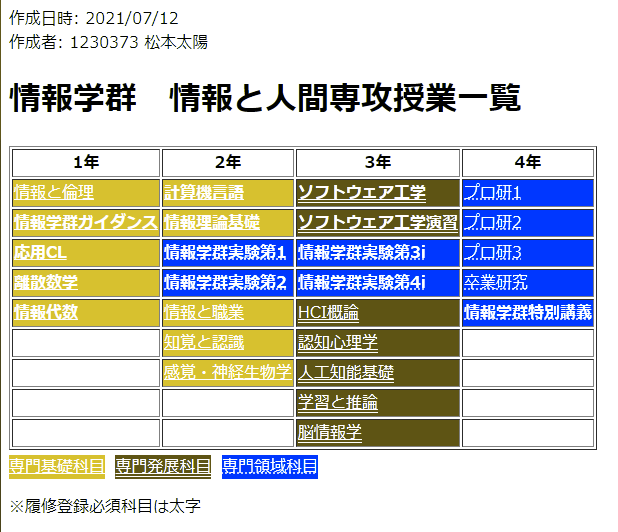
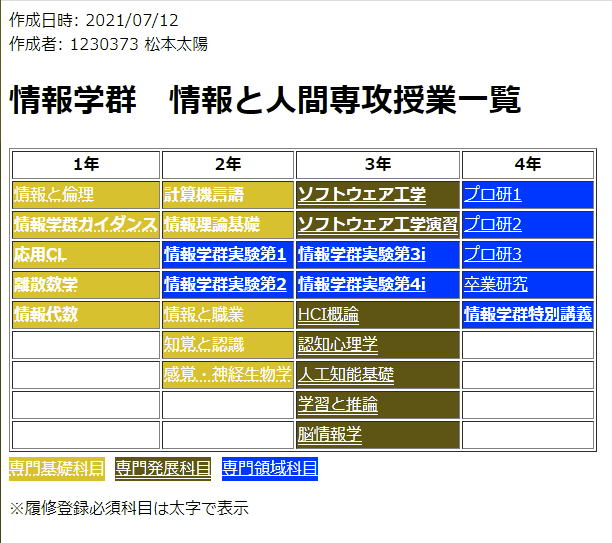
fix

diff --git a/web2/s1-ud.html b/web2/s1-ud.html
@@ -84,7 +84,7 @@
             <span class="sh">専門発展科目</span>
             <span class="sr">専門領域科目</span>
             <span class="require">履修登録必須科目</span>
-            <p class = "req-desc">※履修登録必須科目は太字</p>
+            <p class = "req-desc">※履修登録必須科目は太字で表示</p>
         </div>
     </div>
 </body>

diff --git a/web2/css/s1-ud.css b/web2/css/s1-ud.css
@@ -8,7 +8,7 @@
 
 .mainContents .sk{
     background-color: yellowgreen;
-    text-decoration: underline;
+    text-decoration: underline dotted;
 }
 
 .mainContents .sh{
@@ -18,7 +18,7 @@
 
 .mainContents .sr{
     background-color: blue;
-    text-decoration: underline dotted;
+    text-decoration: underline;
 }
 
 .mainContents .description{
